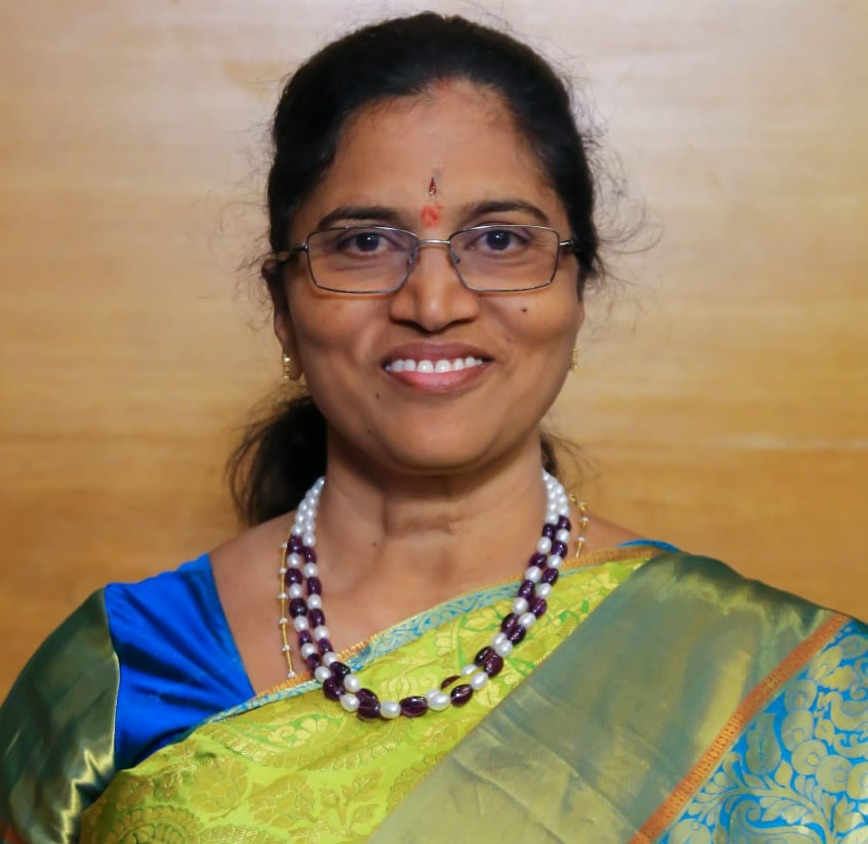
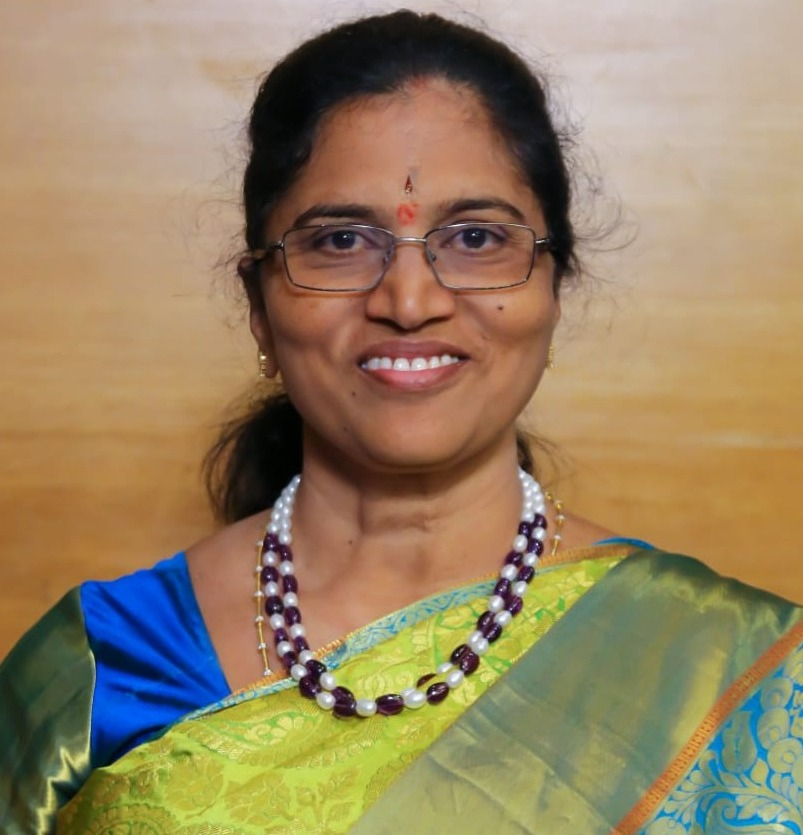
Slight edit

Changed region(s): [[0.0, 0.0, 1.0, 1.0], [0.2802, 0.0623, 0.3736, 0.4671], [0.4359, 0.6228, 0.467, 0.6539]]

diff --git a/src/components/faculty/Faculty.js b/src/components/faculty/Faculty.js
@@ -2,7 +2,7 @@ import React from 'react'
 import FacultyMems from './FacultyMems.js'
 
 import Principal from '../../assets/faculty/Principal.png'
-import Padmasai from '../../assets/faculty/Padmasai.png'
+import Padmasai from '../../assets/faculty/Padmasai.jpeg'
 import Director from '../../assets/faculty/Director.png'
 import Priyanka from '../../assets/faculty/Priyanka.png'
 import Amjad from '../../assets/faculty/Amjad.png'
